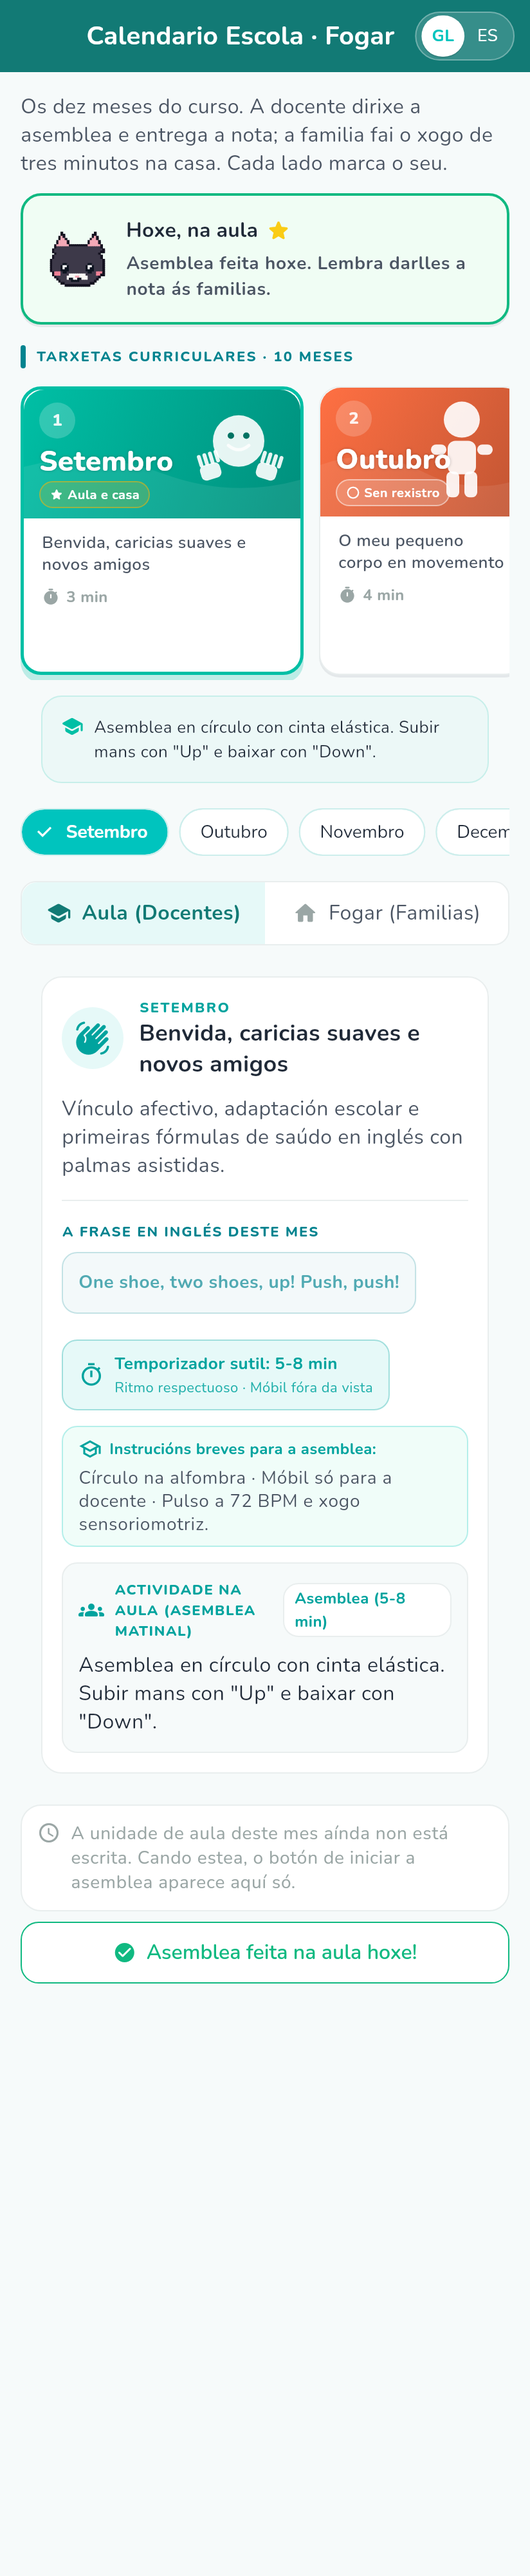
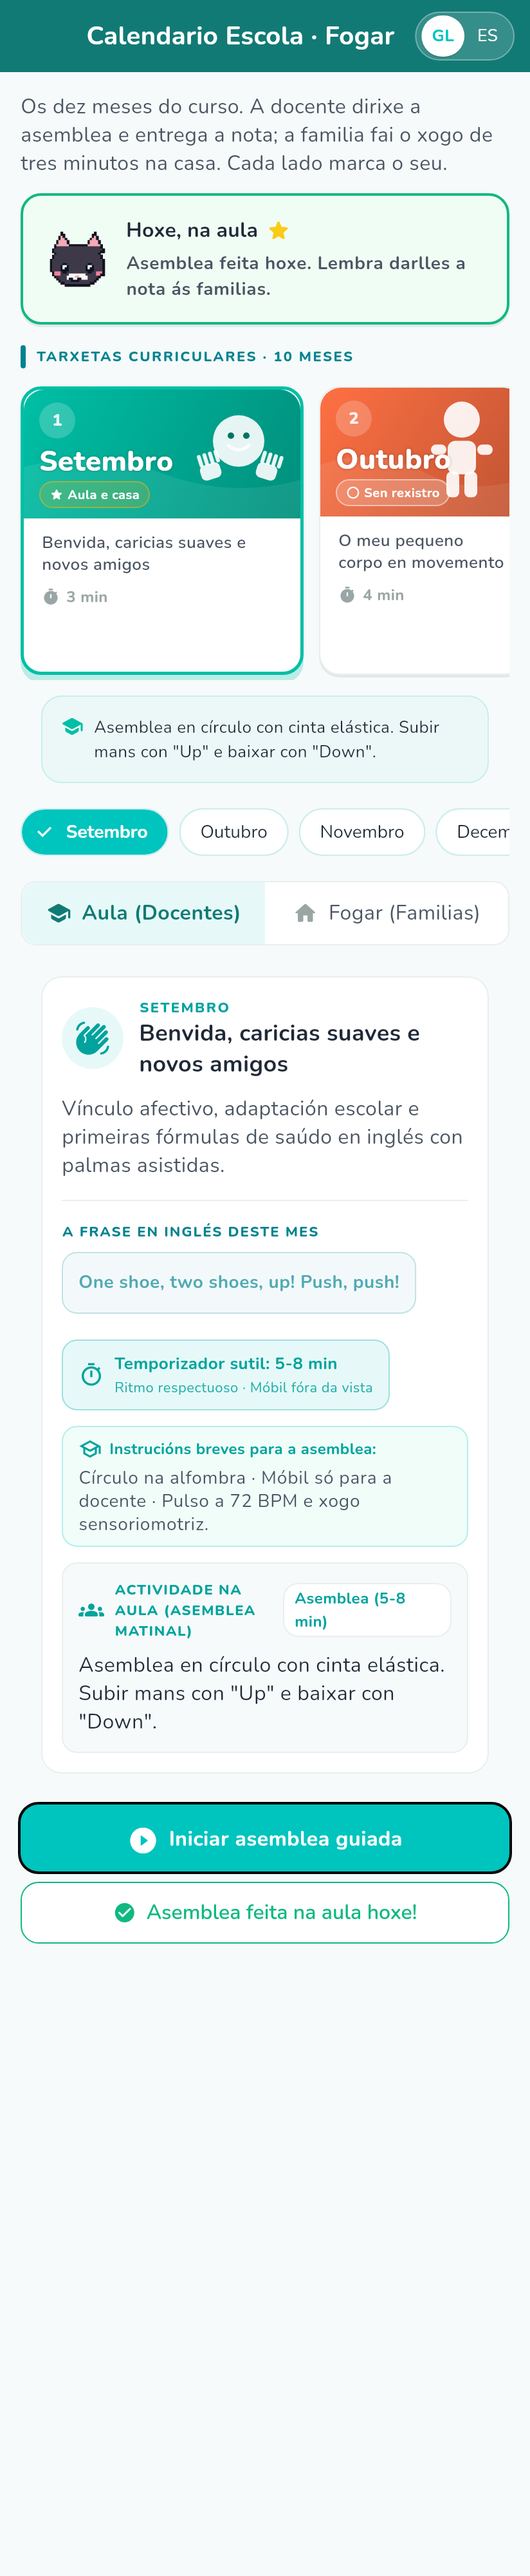
docs(capturas): as imaxes do mes en curso, e a fase do conto
Las imágenes retrataban `getAllUnidades().first`, que con una sola unidad era
la del Mar de Vigo y con diez es la primera por orden alfabético. Ninguna de
las dos es la que una docente abre: ahora se retrata la unidad DEL MES EN
CURSO, la misma que abre el calendario.

Dos imágenes nuevas, asamblea-conto-gl/es: la fase 2 con la tarjeta del
vocabulario en las tres lenguas y la barra de inglés enseñando lo de ESA
página («Hello», «Backpack») en vez de un resumen del cuento entero.

Miradas, y enseñan tres cosas ciertas: el calendario abre en Setembro con su
propia unidad y su botón de iniciar; las pastillas inglesas sin grabación
todavía salen apagadas y legibles, sin prometer un sonido que no hay; y el
marco de la lámina sigue diciendo que la ilustración está pendiente.

Siguen sin ser capturas de un aparato: es el motor de Flutter, sin muesca, sin
barra de gestos y sin audio.

Claude-Session: https://claude.ai/code/session_01Ggo1A4irTAmigpEdQbPYkd

Changed region(s): [[0.0303, 0.6875, 0.9709, 0.7812]]

diff --git a/test/capturas_test.dart b/test/capturas_test.dart
@@ -14,6 +14,7 @@ import 'package:descubre_con_lua/core/storage/local_store.dart';
 import 'package:descubre_con_lua/core/theme/app_theme.dart';
 import 'package:descubre_con_lua/core/storage/calendario_store.dart';
 import 'package:descubre_con_lua/data/repositories/calendario_repository.dart';
+import 'package:descubre_con_lua/data/models/unidad_model.dart';
 import 'package:descubre_con_lua/data/repositories/content_repository.dart';
 import 'package:descubre_con_lua/features/academy/views/guia_atencion_screen.dart';
 import 'package:descubre_con_lua/features/calendario/views/calendario_screen.dart';
@@ -192,6 +193,15 @@ void main() {
     }
   }
 
+  /// La unidad del mes en curso: la que una docente abriría hoy. Antes se
+  /// retrataba `getAllUnidades().first`, que con diez unidades es la primera
+  /// por orden alfabético y no tiene nada que ver con el mes.
+  Future<Unidad> unidadDeHoxe(WidgetTester tester) async {
+    final cal = await contenidoCalendario(tester);
+    final id = cal.mesParaFecha(DateTime.now()).unidadId;
+    return contenido.getUnidadById(id!)!;
+  }
+
   Future<void> capturar(
     WidgetTester tester,
     String nombre,
@@ -327,7 +337,7 @@ void main() {
         tester,
         'asamblea-ingles-$l',
         AsambleaGuiadaScreen(
-          unidad: contenido.getAllUnidades().first,
+          unidad: await unidadDeHoxe(tester),
           initialLanguage: lang,
           audioService: MockOfflineAudioService(),
         ),
@@ -335,12 +345,42 @@ void main() {
       );
     });
 
+    testWidgets('asamblea · o conto e as palabras · $l', (tester) async {
+      // La fase 2, que es donde estrena la tarjeta del vocabulario con las
+      // tres lenguas. `capturar` monta la fase 1, así que hay que avanzar y
+      // volver a retratar: por eso esta no usa el ayudante tal cual.
+      final unidad = await unidadDeHoxe(tester);
+      await calentarMascota(tester);
+      tester.view.physicalSize = const Size(412, 1800) * 2;
+      tester.view.devicePixelRatio = 2.0;
+      addTearDown(tester.view.reset);
+
+      await tester.pumpWidget(MaterialApp(
+        theme: AppTheme.lightTheme,
+        debugShowCheckedModeBanner: false,
+        home: AsambleaGuiadaScreen(
+          unidad: unidad,
+          initialLanguage: lang,
+          audioService: MockOfflineAudioService(),
+        ),
+      ));
+      await tester.pumpAndSettle();
+      await tester.tap(find.byKey(const Key('boton_seguinte_fase')));
+      await tester.pumpAndSettle();
+      await tester.runAsync(
+          () => Future<void>.delayed(const Duration(milliseconds: 120)));
+      await tester.pumpAndSettle();
+
+      await expectLater(find.byType(MaterialApp),
+          matchesGoldenFile('../docs/capturas/asamblea-conto-$l.png'));
+    });
+
     testWidgets('a nota para as casas · $l', (tester) async {
       await capturar(
         tester,
         'nota-casas-$l',
         NotaParaCasasScreen(
-          unidad: contenido.getAllUnidades().first,
+          unidad: await unidadDeHoxe(tester),
           language: lang,
           audioService: MockOfflineAudioService(),
         ),
